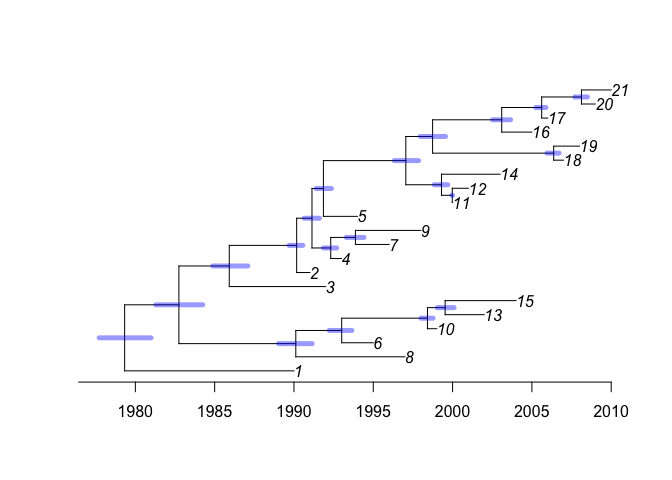
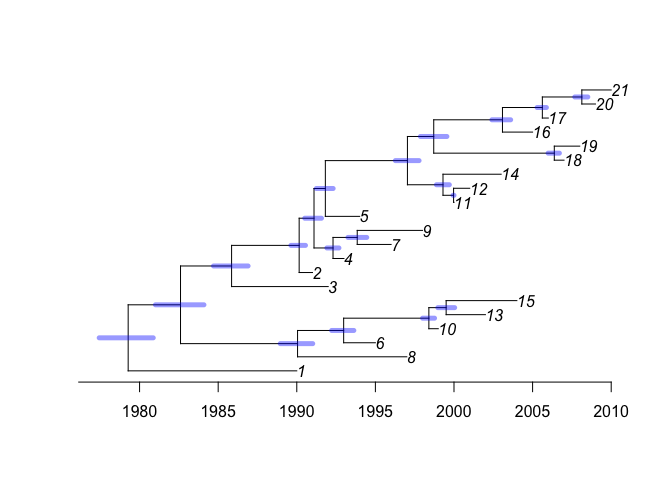
Default model is now mixed model

diff --git a/README.md b/README.md
@@ -3,9 +3,9 @@
 [![Coverage Status](https://codecov.io/github/xavierdidelot/BactDating/coverage.svg?branch=master)](https://codecov.io/github/xavierdidelot/BactDating?branch=master) -->
 <!-- README.md is generated from README.Rmd. Please edit that file -->
 BactDating
-=========
+==========
 
-The goal of BactDating is to perform Bayesian dating of the nodes of phylogenetic tree. This typically involves simultaneous Bayesian estimation of the molecular clock rate and coalescent rate. Additional features include inference of root location, lost sampling dates and different evolutionary models.
+The goal of BactDating is to perform Bayesian dating of the nodes of a bacterial phylogenetic tree. This typically involves simultaneous Bayesian estimation of the molecular clock rate and coalescent rate. Additional features include inference of root location, lost sampling dates and different evolutionary models.
 
 Installation
 ------------
